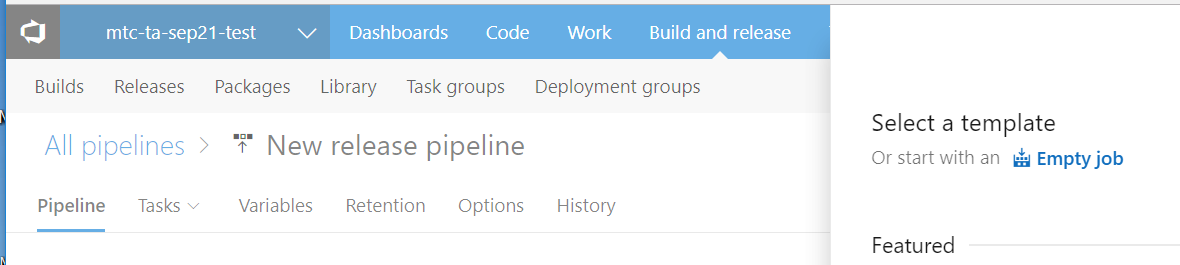
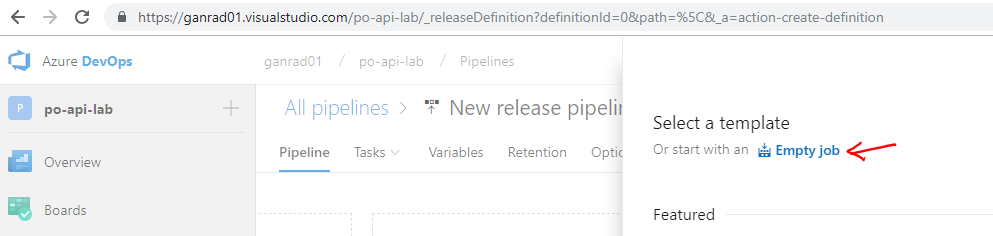
Updated Readme doc and screenshots

diff --git a/README.md b/README.md
@@ -263,7 +263,7 @@ In this step, we will deploy an instance of Azure Container Registry to store co
     ![alt tag](./images/B-02.png)
 
 
-### C] Create a new Build definition in VSTS to deploy the Springboot microservice
+### C] Create a *Build Pipeline* in Azure DevOps to deploy the Springboot microservice
 **Approx. time to complete this section: 1 Hour**
 
 In this step, we will define the tasks for building the microservice (binary artifacts) application and packaging (layering) it within a docker container.  The build tasks use **Maven** to build the Springboot microservice & **docker-compose** to build the application container.  During the application container build process, the application binary is layered on top of a base docker image (CentOS 7).  Finally, the built application container is pushed into ACR which we deployed in step [B] above.
@@ -388,7 +388,7 @@ In this step, we will first deploy an AKS cluster on Azure.  The Springboot **Pu
 
 Kubernetes manifest files for deploying the **MySQL** and **po-service** (Springboot application) containers are provided in the **k8s-scripts/** folder in this GitHub repository.  There are two manifest files in this folder **mysql-deploy.yaml** and **app-deploy.yaml**.  As the names suggest, the *mysql-deploy* manifest file is used to deploy the **MySQL** database container and the other file is used to deploy the **Springboot** microservice respectively.
 
-Before proceeding with the next steps, feel free to inspect the Kubernetes manifest files to get a better understanding of the following.  These are all out-of-box capabilities provided by Kubernetes.
+Before proceeding with the next steps, feel free to inspect the Kubernetes manifest files to get a better understanding of the following.  These are all out-of-box features provided by Kubernetes.
 -  How confidential data such as database user names & passwords are injected (at runtime) into the application container using **Secrets**
 -  How application configuration information (non-confidential) such as database connection URL and the database name parameters are injected (at runtime) into the application container using **ConfigMaps**
 -  How **environment variables** such as the MySQL listening port is injected (at runtime) into the application container.
@@ -421,7 +421,7 @@ Follow the steps below to provision the AKS cluster and deploy the *po-service* 
 3.  Refer to the commands below to create an AKS cluster.  If you haven't already created a **resource group**, you will need to create one first.  If needed, go back to step [A] and review the steps for the same.  Cluster creation will take a few minutes to complete.
     ```
     # Create a 1 Node AKS cluster
-    $ az aks create --resource-group myResourceGroup --name akscluster --node-count 1 --dns-name-prefix akslab --generate-ssh-keys --disable-rbac  --kubernetes-version "1.11.4"
+    $ az aks create --resource-group myResourceGroup --name akscluster --node-count 1 --dns-name-prefix akslab --generate-ssh-keys --disable-rbac  --kubernetes-version "1.11.5"
     #
     # Verify state of AKS cluster
     $ az aks show -g myResourceGroup -n akscluster --output table
@@ -444,6 +444,8 @@ Follow the steps below to provision the AKS cluster and deploy the *po-service* 
     # Check if Helm client is able to connect to Tiller on AKS.
     # This command should list both client and server versions.
     $ helm version
+    Client: &version.Version{SemVer:"v2.11.0", GitCommit:"20adb27c7c5868466912eebdf6664e7390ebe710", GitTreeState:"clean"}
+    Server: &version.Version{SemVer:"v2.11.0", GitCommit:"2e55dbe1fdb5fdb96b75ff144a339489417b146b", GitTreeState:"clean"}
     ```
 
 5.  Next, create a new Kubernetes **namespace** resource.  This namespace will be called *development*.  
@@ -597,10 +599,10 @@ Congrats!  You have just built and deployed a Java Springboot microservice on Az
 
 We will define a **Release Pipeline** in Azure DevOps to perform automated application deployments to AKS next.
 
-### E] Create a simple *Release Pipeline* in VSTS
+### E] Create a *Release Pipeline* in Azure DevOps to re-deploy the Springboot microservice
 **Approx. time to complete this section: 1 Hour**
 
-1.  Using a web browser, login to your VSTS account (if you haven't already) and select your project which you created in Step [C]. Click on *Build and Release* menu on the top panel and select *Releases*.  Next, click on *+ New pipeline*.
+1.  Using a web browser, login to your Azure DevOps account (if you haven't already) and select your project which you created in Step [C]. Click on *Pipelines* menu in the left navigational panel and select *Releases*.  Next, click on *New pipeline*.
 
     ![alt tag](./images/E-02.PNG)
 
@@ -612,9 +614,15 @@ We will define a **Release Pipeline** in Azure DevOps to perform automated appli
 
     ![alt tag](./images/E-04.PNG)
 
-    In the *Add artifact* page, select *Build* for **Source type**, select your VSTS project from the **Project** drop down menu and select your *Build definition* in the drop down menu for **Source (Build definition)**.  Leave the remaining field values as is and click **Add**.  See screenshot below. 
+    In the *Add artifact* page, select *Build* for **Source type**, select your Azure DevOps project from the **Project** drop down menu and select your *Build definition* in the drop down menu for **Source (build pipeline)**.  Select *Latest* for field **Default version**. See screenshot below. 
 
     ![alt tag](./images/E-05.PNG)
+
+    Click on **Add**.
+
+    Change the name of the *Release pipeline* as shown in the screenshot below.
+
+    ![alt tag](./images/E-051.PNG)
 
     In the *Pipeline* tab, click on the *trigger* icon (highlighted in yellow) and enable **Continuous deployment trigger**.  See screenshot below.
 
@@ -638,31 +646,25 @@ We will define a **Release Pipeline** in Azure DevOps to perform automated appli
 
     ![alt tag](./images/E-10.PNG)
 
-    Again, click on the ** + ** symbol beside **Agent job** and search for text **Deploy to Kubernetes**, select this extension and click **Add*.  See screenshot below.
+    Again, click on the ** + ** symbol beside **Agent job** and search for text **Deploy to Kubernetes**, select this extension and click **Add**.  See screenshot below.
 
     ![alt tag](./images/E-11.PNG)
 
-    Click on the **Deploy to Kubernetes** task on the left panel and fill out the details (numbered) as shown in the screenshot below.  This task will **apply** (update) the changes (image tag) to the kubernetes **Deployment** object on the Azure AKS cluster and do a **Rolling** deployment for the **po-service** microservice application.
+    Click on the **Deploy to Kubernetes** task on the left panel and fill out the details as shown in the screenshot below.  This task will **apply** (update) the changes (image tag) to the kubernetes **Deployment** object on the Azure AKS cluster and do a **Rolling** deployment for the **po-service** microservice application.
 
-    If you do not see your Kubernetes Cluster in the drop down menu, you will need to add it.  You can select `+NEW` and then fill out the information.  You will need the API Address, which you can find if you view your Kubernetes Cluster within the portal.  It will look similar to `akslab-ae1a2677.hcp.centralus.azmk8s.io`  Be sure to add `https://` before it when pasting it into VSTS for `Server URL`.
+    If you do not see your Kubernetes Cluster in the drop down menu, you will need to add it.  You can select `+NEW` and then fill out the information.  You will need the API Address, which you can find if you view your Kubernetes Cluster within the portal.  It will look similar to `akslab-ae1a2677.hcp.centralus.azmk8s.io`  Be sure to add `https://` before it when pasting it into Azure DevOps for `Server URL`.
 
     Additionally you will need your Kubernetes Configuration file from earlier.  Simply copy the contents in full to the `KubeConfig` section.
 
+    After filling out all the field values (as shown), click **Save** on the top panel.  Provide a comment and click **OK**.
+
     ![alt tag](./images/E-12.PNG)
-
-    Change the name of the release pipeline to **cd-po-service** and click **Save** on the top panel.  Provide a comment and click **OK**.
-
-    ![alt tag](./images/E-14.PNG)
 
     We have now finished defining the **Release pipeline**.  This pipeline will in turn be triggered whenever the build pipeline completes Ok.
 
 2.  In the po-service deployment manifest file **'./k8s-scripts/app-update-deploy.yaml'**, update the container **image** attribute value by specifying the name of your ACR repository.  You can make this change locally on your cloned repository (on the Linux VM) and then push (git push) the updates to your GitHub repository.  Alternatively, you can make this change directly in your GitHub repository (via web browser).  Search for the **image** attribute in file **'app-update-deploy.yaml'** and specify the correct **name** of your ACR repository (eg., Replace ACR_NAME in **ACR_NAME.azurecr.io**).  
 
-3.  Edit the build pipeline and click on the **Triggers** tab.  See screenshot below.
-
-    ![alt tag](./images/E-15.PNG)
-
-    Click the checkbox for both **Enable continuous integration** and **Batch changes while a build is in progress**.  Leave other fields as is.  Click on **Save & queue** menu and select the **Save** option.
+3.  Edit the build pipeline and click on the **Triggers** tab.  Click the checkbox for both **Enable continuous integration** and **Batch changes while a build is in progress**.  Leave other fields as is.  Click on **Save & queue** menu and select the **Save** option.
 
     ![alt tag](./images/E-16.PNG)
 
